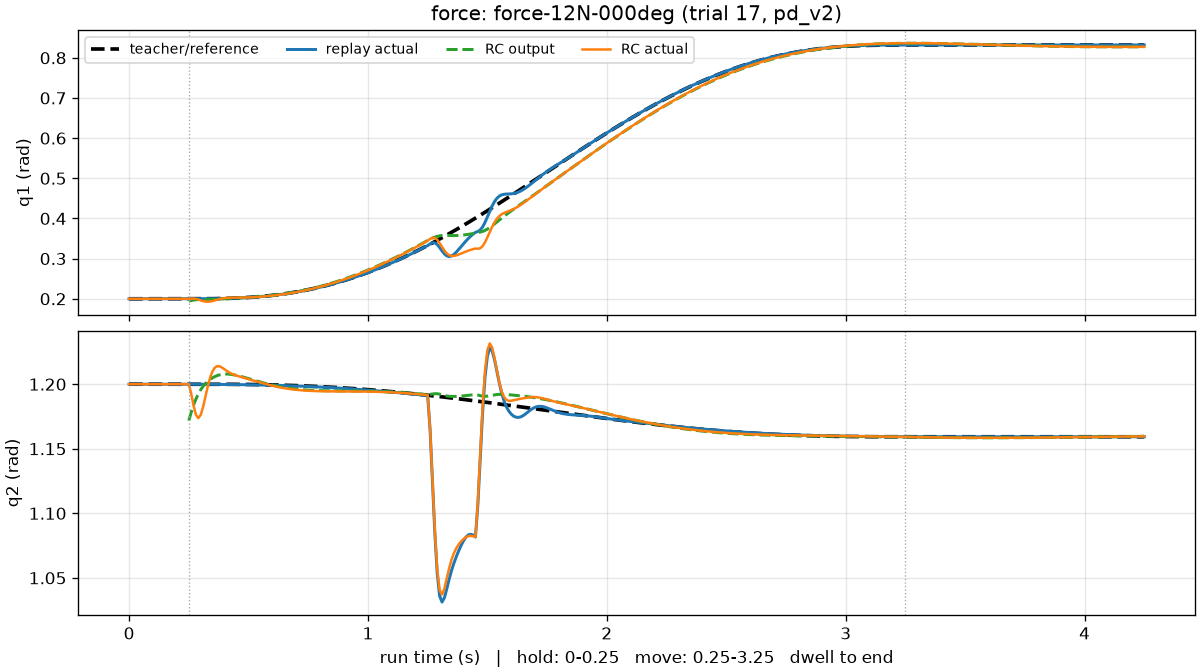
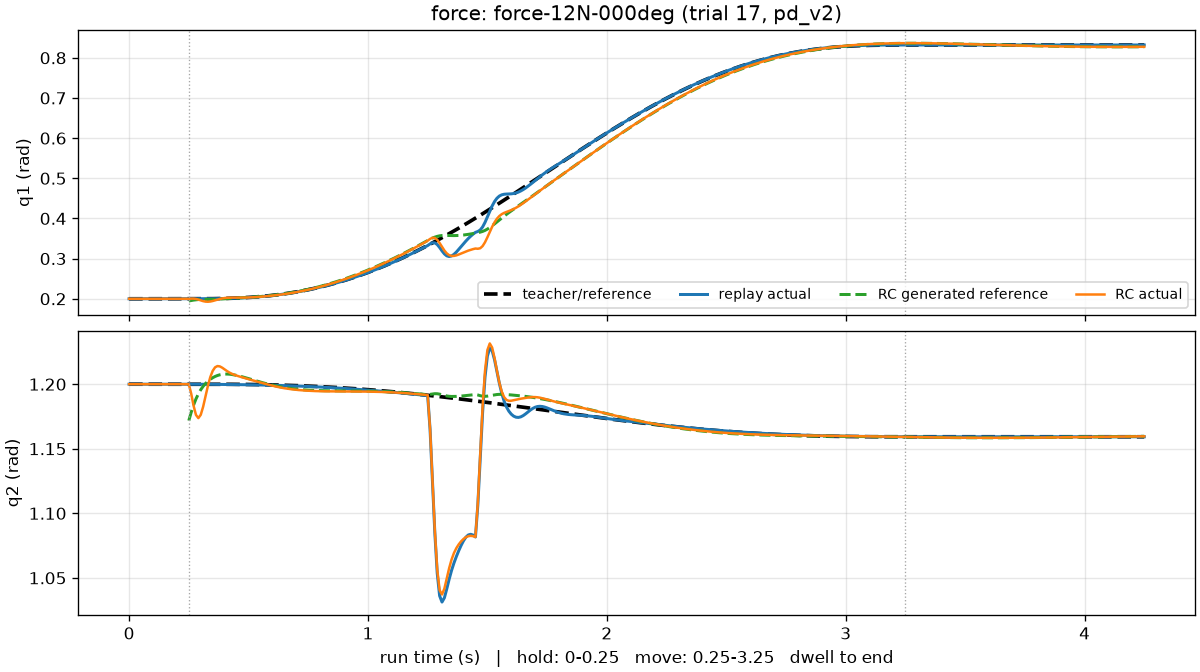
docs(experiments): regenerate the report with protocol names and diagnostics
M3R-021 review findings 3 and 4, evidence half: the four trajectory
figures now carry the approved 'RC generated reference' dashed label
under the generator_output_q identifier, and recovery_report_v1.md
gains the locked diagnostics tables (original-trajectory RMSE for both
arms, restoring alignment, reference-deviation/contraction, desired
and actual acceleration and jerk, torque RMS/peak, saturation) with the
curated-versus-all-trials scope stated. The evidence regression now
also regenerates every committed figure from the verified inputs and
compares it byte-for-byte when the store is present.

Tasks: M3R-021

diff --git a/tests/regression/test_recovery_report_evidence.py b/tests/regression/test_recovery_report_evidence.py
@@ -6,12 +6,16 @@
 from __future__ import annotations
 
 import re
+from typing import TYPE_CHECKING
 
 import pytest
 
 from arm_rc_ctrl.experiments.recovery_freeze import load_freeze
 from arm_rc_ctrl.experiments.recovery_representative import load_representatives
 from arm_rc_ctrl.repo import repository_root
+
+if TYPE_CHECKING:
+    from pathlib import Path
 
 pytestmark = pytest.mark.regression
 
@@ -34,6 +38,9 @@ def test_report_states_the_accepted_negative() -> None:
         "Flat infeasible objective",
         "Sampled, not exhaustive",
         "15-of-20 consistency requirement",
+        "curated representative pairs only",
+        "### Original-trajectory RMSE, restoring alignment, and contraction",
+        "### Smoothness and effort",
         f"freeze commit `{freeze.provenance.project_commit[:12]}`",
         f"{freeze.n_candidates} feasible development trials",
     ):
@@ -60,3 +67,23 @@ def test_representative_runs_are_tracked_and_cited() -> None:
             assert (REPO_ROOT / "data" / "records" / "runs" / f"{run_id}.toml").exists(), run_id
         assert pair.rc_run in text
         assert pair.replay_run in text
+
+
+def test_committed_plots_regenerate_byte_for_byte(tmp_path: Path) -> None:
+    """Every committed figure reproduces exactly from the verified inputs when the store is present."""
+    from arm_rc_ctrl.experiments.recovery_report import build_report_inputs, write_recovery_plots
+    from arm_rc_ctrl.storage import StorageAccessError, open_storage
+
+    try:
+        store = open_storage()
+    except Exception as exc:  # noqa: BLE001 - any setup failure just means no store on this runner
+        pytest.skip(f"external storage unavailable: {exc}")
+    try:
+        inputs = build_report_inputs(DOCS, store=store, records_root=REPO_ROOT)
+    except StorageAccessError as exc:
+        pytest.skip(f"external payload unavailable: {exc}")
+    written = write_recovery_plots(inputs, tmp_path)
+    committed_dir = DOCS / "plots" / "recovery_report_v1"
+    assert sorted(written) == sorted(p.name for p in committed_dir.glob("*.png"))
+    for name in written:
+        assert (tmp_path / name).read_bytes() == (committed_dir / name).read_bytes(), name

diff --git a/docs/experiments/task_1a_state_conditioned_recovery/recovery_report_v1.md b/docs/experiments/task_1a_state_conditioned_recovery/recovery_report_v1.md
@@ -28,16 +28,46 @@ Per class-by-tracker cell over all 134 feasible trials: the early command-gap ra
 
 Selection: Per posture class: the development scenario whose stored pd_v2 early command-gap ratio of the source trial lies closest to the class median (ties by scenario ID); the nominal scenario and the first force scenario by ID complete the set. Deterministic; never picks flattering examples.
 
-| class | scenario | tracker | RC run | replay run | jump (rad) | early gap (rad s) | settling (s) | dwell frac | desired vmax (rad/s) | torque RMS (N m) | actual jerk RMS |
-| --- | --- | --- | --- | --- | --- | --- | --- | --- | --- | --- | --- |
-| nominal | nominal | pd_v2 | run-20260904-27f7ccb98e4f | run-20260904-9c32cf3d8fba | 0.02875 | 0.001935 | 0 | 1 | 0.0172 | 0.1095 | 218 |
-| nominal | nominal | computed_torque | run-20260904-a77deb2cda71 | run-20260904-83f433d2ffdf | 0.02875 | 0.00138 | 0 | 1 | 0.0151 | 0.2041 | 101 |
-| posture_small | posture-small-20261204-02 | pd_v2 | run-20260904-449a5c19f80a | run-20260904-c8c77a5bc624 | 0.04942 | 0.00276 | 0.01 | 1 | 0.0173 | 0.1443 | 471 |
-| posture_small | posture-small-20261204-02 | computed_torque | run-20260904-1c2b3d7fae9c | run-20260904-dd2f51194b0c | 0.04942 | 0.001679 | 0.01 | 1 | 0.0153 | 0.184 | 138 |
-| posture_large | posture-large-20261201-02 | pd_v2 | run-20260904-d9c6c77c5564 | run-20260904-866853da673d | 0.0609 | 0.002566 | 2.14 | 1 | 0.0169 | 0.1787 | 528 |
-| posture_large | posture-large-20261201-02 | computed_torque | run-20260904-c42620144fcc | run-20260904-08994fcffcd0 | 0.0609 | 0.003281 | 2.15 | 1 | 0.0149 | 0.1305 | 55.4 |
-| force | force-12N-000deg | pd_v2 | run-20260904-14646a0ce72e | run-20260904-34dd8feced9e | 0.02875 | 0.001935 | 0 | 1 | 0.017 | 0.9561 | 1.77e+03 |
-| force | force-12N-000deg | computed_torque | run-20260904-b319c0e0b6be | run-20260904-6a6e61d824c1 | 0.02875 | 0.00138 | 1.83 | 1 | 0.0149 | 0.8342 | 1.52e+03 |
+These tables cover the curated representative pairs only; the distribution plots and the eligibility evaluation cover all feasible development trials.
+
+### Paired early metrics and target dwell
+
+| class | scenario | tracker | RC run | replay run | jump (rad) | early gap (rad s) | settling (s) | dwell frac | desired vmax (rad/s) |
+| --- | --- | --- | --- | --- | --- | --- | --- | --- | --- |
+| nominal | nominal | pd_v2 | run-20260904-27f7ccb98e4f | run-20260904-9c32cf3d8fba | 0.02875 | 0.001935 | 0 | 1 | 0.0172 |
+| nominal | nominal | computed_torque | run-20260904-a77deb2cda71 | run-20260904-83f433d2ffdf | 0.02875 | 0.00138 | 0 | 1 | 0.0151 |
+| posture_small | posture-small-20261204-02 | pd_v2 | run-20260904-449a5c19f80a | run-20260904-c8c77a5bc624 | 0.04942 | 0.00276 | 0.01 | 1 | 0.0173 |
+| posture_small | posture-small-20261204-02 | computed_torque | run-20260904-1c2b3d7fae9c | run-20260904-dd2f51194b0c | 0.04942 | 0.001679 | 0.01 | 1 | 0.0153 |
+| posture_large | posture-large-20261201-02 | pd_v2 | run-20260904-d9c6c77c5564 | run-20260904-866853da673d | 0.0609 | 0.002566 | 2.14 | 1 | 0.0169 |
+| posture_large | posture-large-20261201-02 | computed_torque | run-20260904-c42620144fcc | run-20260904-08994fcffcd0 | 0.0609 | 0.003281 | 2.15 | 1 | 0.0149 |
+| force | force-12N-000deg | pd_v2 | run-20260904-14646a0ce72e | run-20260904-34dd8feced9e | 0.02875 | 0.001935 | 0 | 1 | 0.017 |
+| force | force-12N-000deg | computed_torque | run-20260904-b319c0e0b6be | run-20260904-6a6e61d824c1 | 0.02875 | 0.00138 | 1.83 | 1 | 0.0149 |
+
+### Original-trajectory RMSE, restoring alignment, and contraction
+
+| class | tracker | RC move RMSE (rad) | replay move RMSE (rad) | mean cosine | positive frac | ref deviation early (rad s) | contraction rate (1/s) |
+| --- | --- | --- | --- | --- | --- | --- | --- |
+| nominal | pd_v2 | 0.01145 | 0.000254 | 0.452 | 0.733 | 0.002456 | n/a |
+| nominal | computed_torque | 0.01293 | 1.484e-05 | 0.505 | 0.805 | 0.002515 | n/a |
+| posture_small | pd_v2 | 0.01623 | 0.004087 | 0.51 | 0.8 | 0.01829 | n/a |
+| posture_small | computed_torque | 0.01448 | 0.005034 | 0.366 | 0.805 | 0.01806 | n/a |
+| posture_large | pd_v2 | 0.03784 | 0.006452 | 0.396 | 0.711 | 0.02309 | -0.24 |
+| posture_large | computed_torque | 0.04003 | 0.01102 | 0.403 | 0.768 | 0.02376 | -0.244 |
+| force | pd_v2 | 0.02766 | 0.02413 | 0.101 | 0.552 | 0.002456 | n/a |
+| force | computed_torque | 0.151 | 0.1417 | -0.0732 | 0.46 | 0.002515 | -1.91 |
+
+### Smoothness and effort
+
+| class | tracker | des accel RMS | act accel RMS | des jerk RMS | act jerk RMS | torque RMS (N m) | torque peak (N m) | saturation |
+| --- | --- | --- | --- | --- | --- | --- | --- | --- |
+| nominal | pd_v2 | 0.744 | 3.43 | 11 | 218 | 0.1095 | 1.109 | 0 |
+| nominal | computed_torque | 0.737 | 2.76 | 10.8 | 101 | 0.2041 | 4.581 | 0 |
+| posture_small | pd_v2 | 0.81 | 6.82 | 18.2 | 471 | 0.1443 | 1.479 | 0 |
+| posture_small | computed_torque | 0.768 | 4 | 11.2 | 138 | 0.184 | 3.468 | 0 |
+| posture_large | pd_v2 | 0.676 | 7.2 | 25.8 | 528 | 0.1787 | 2.421 | 0 |
+| posture_large | computed_torque | 0.612 | 2.91 | 5.56 | 55.4 | 0.1305 | 2.449 | 0 |
+| force | pd_v2 | 1.09 | 19.1 | 45.9 | 1.77e+03 | 0.9561 | 7.261 | 0 |
+| force | computed_torque | 1.77 | 19.3 | 45.9 | 1.52e+03 | 0.8342 | 4.623 | 0 |
 
 ## Failures
 
